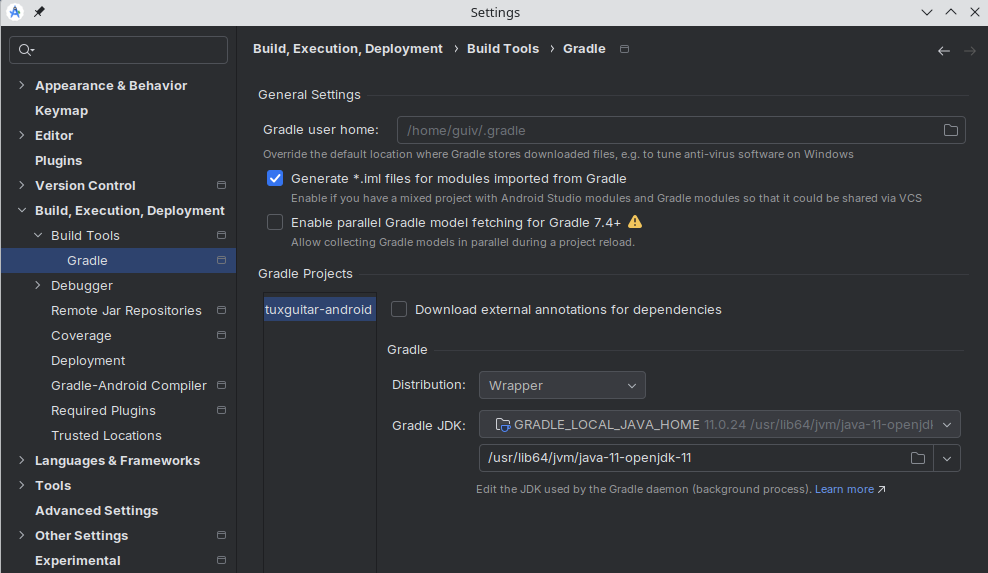
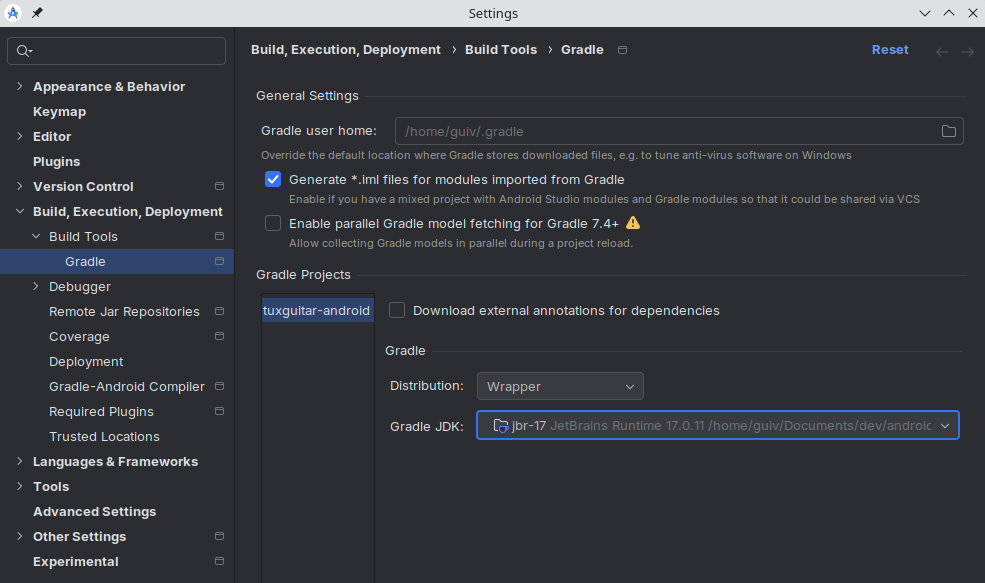
update doc following Android JDK update
see b0b7fdaf96de8238dac4e43ff9c7d011244b8f9a

diff --git a/doc/contribute.md b/doc/contribute.md
@@ -80,12 +80,15 @@ TuxGuitar provides Android and desktop applications:
 
 This section was updated in September 2024. It describes how to import the TuxGuitar project in Android Studio, in a Linux environment:
 
-- make sure you have a JDK for Java 11 installed. This is distribution-dependent, in my case I installed `java-11-openjdk-devel` package;
 - download and install Android Studio. This section was written for Android Studio "Koala feature drop 2024.1.2";
 - from Android Studio, open project located here: [android/build-scripts/tuxguitar-android](../android/build-scripts/tuxguitar-android);
-- in menu File -> Settings, select "Build, Execution, Deployment / Build Tools / Gradle". In the field "Gradle JDK", select JDK 11 previously installed. If it isn't displayed in the list, browse to the installation folder. Settings window should look like this:
+- in menu File -> Settings, select "Build, Execution, Deployment / Build Tools / Gradle". In the field "Gradle JDK", select "jbr-17"
+
+Settings window should look like this:
 
 <img src="images/contribute/android-studio-settings.png" width="50%" alt="Android Studio, Gradle settings">
+
+Then:
 
 - type OK;
 - in menu "File", select "Sync Project with Gradle Files".
